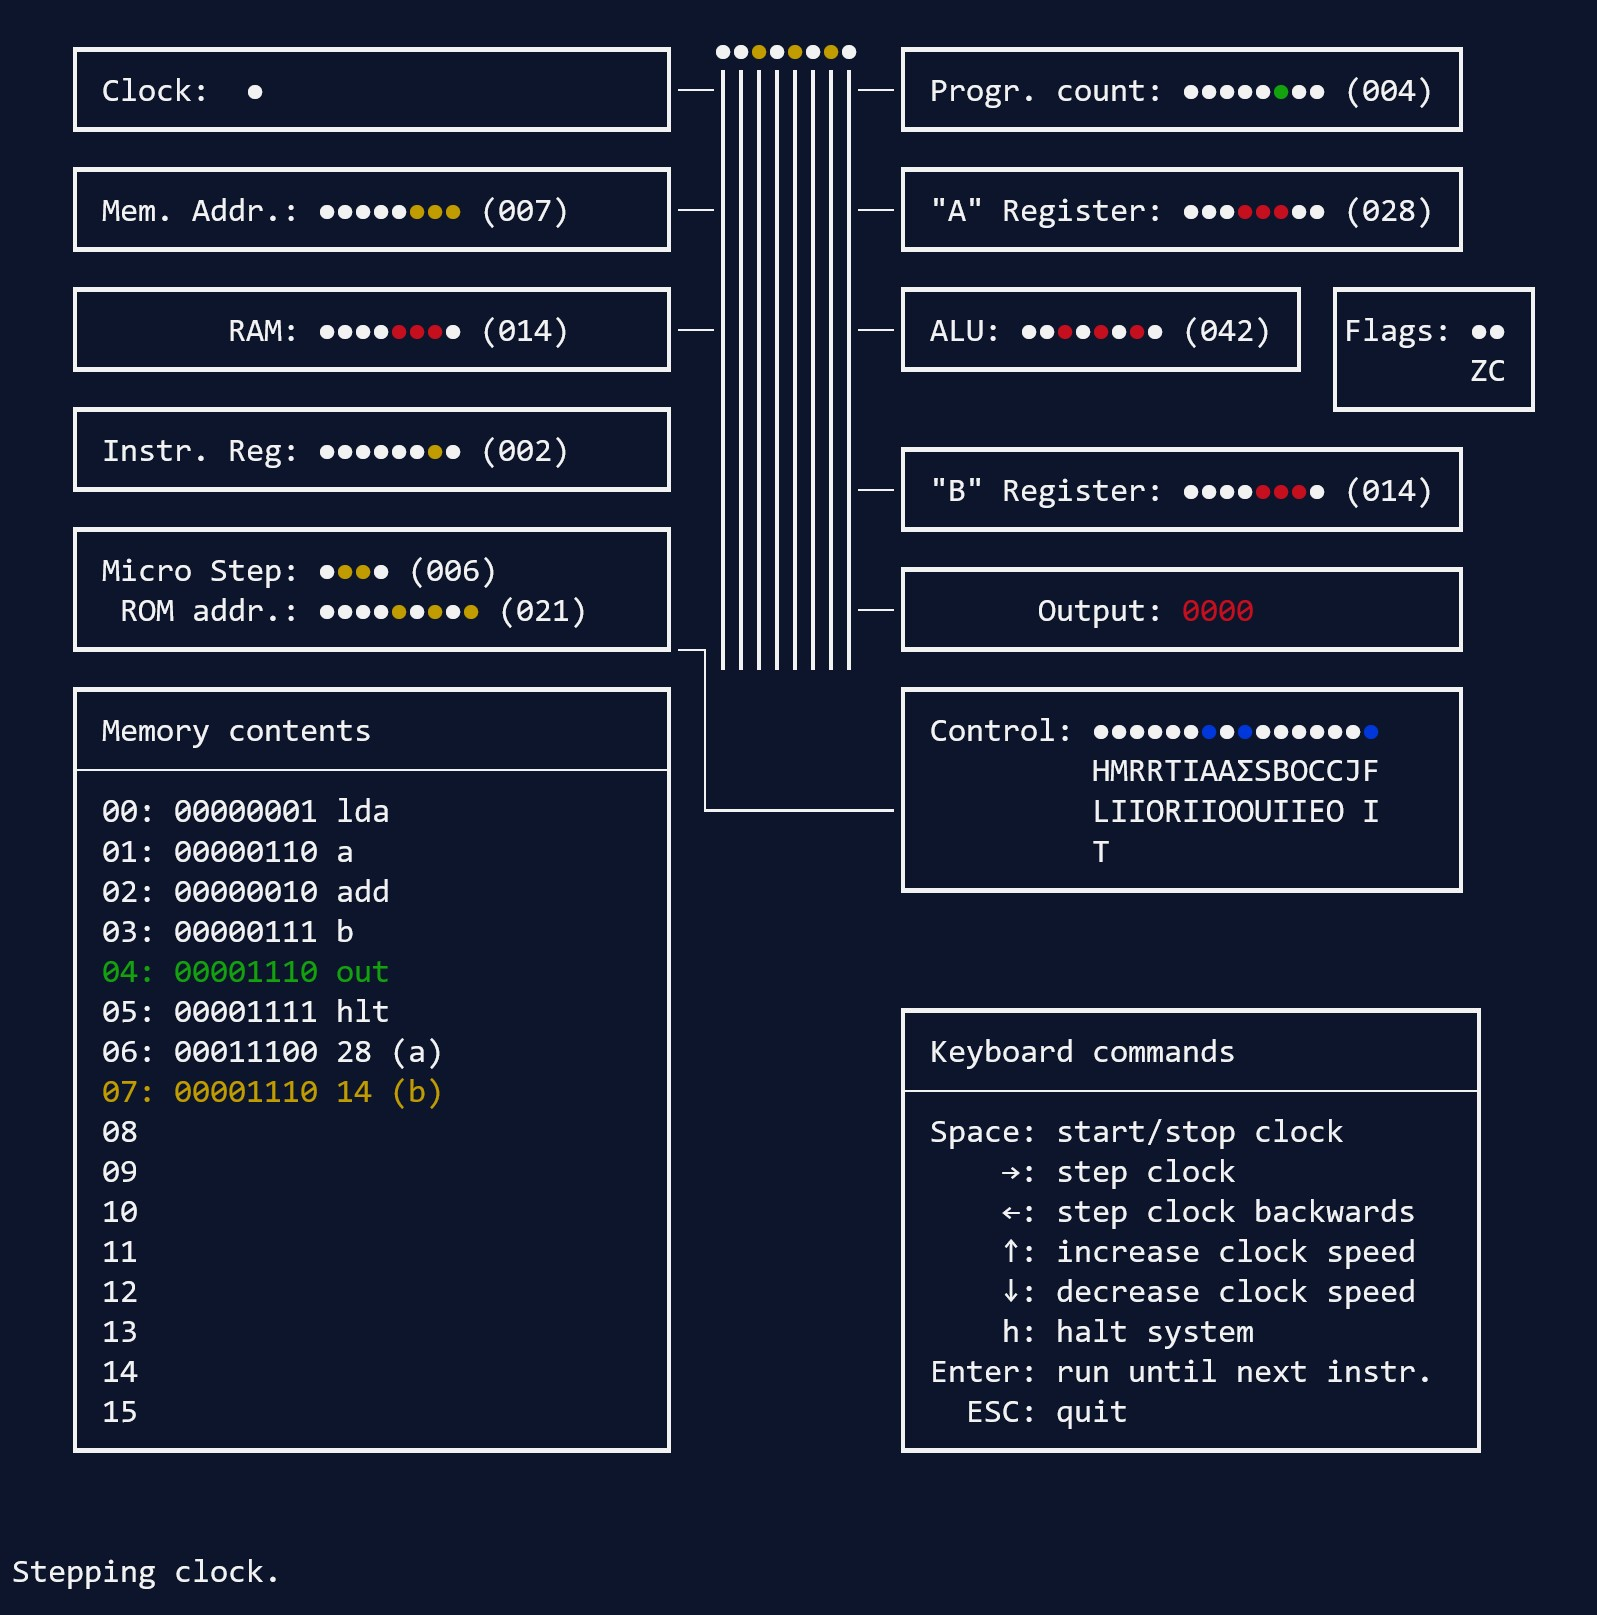
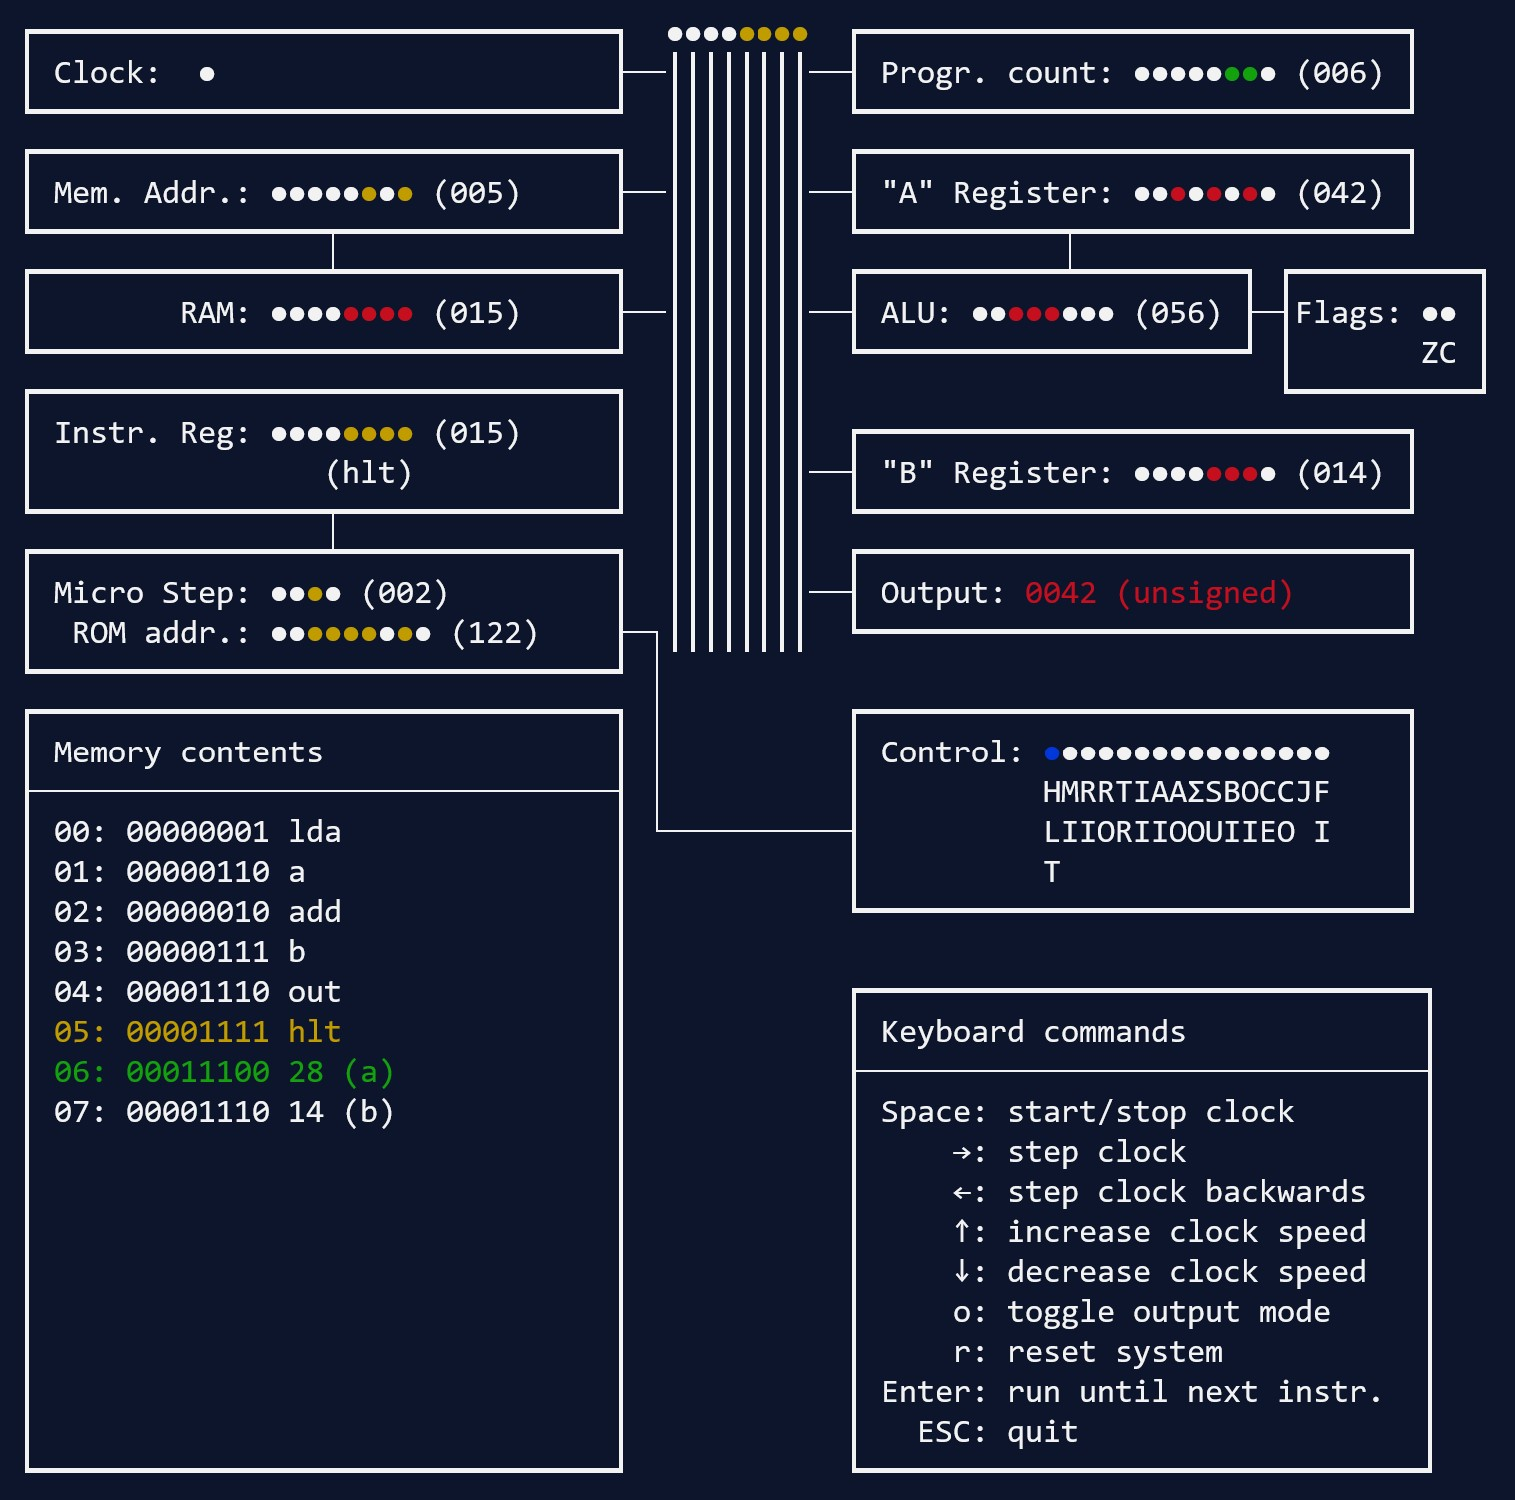
Update interface

Changed region(s): [[0.0, 0.0, 0.9927, 0.9813], [0.0, 0.9507, 0.1861, 0.9813], [0.9307, 0.9507, 0.9617, 0.9813]]

diff --git a/interface.py b/interface.py
@@ -11,10 +11,10 @@ schematic = """
    ┗━━━━━━━━━━━━━━━━━━━━━━━━━━━━━━━━┛  ┃┃┃┃┃┃┃┃  ┗━━━━━━━━━━━━━━━━━━━━━┛ ┃       ZC ┃
    ┏━━━━━━━━━━━━━━━━━━━━━━━━━━━━━━━━┓  ┃┃┃┃┃┃┃┃                          ┗━━━━━━━━━━┛
    ┃ Instr. Reg: ●●●●●●●● (dec)     ┃  ┃┃┃┃┃┃┃┃  ┏━━━━━━━━━━━━━━━━━━━━━━━━━━━━━━┓
-   ┗━━━━━━━━━━━━━━━━┯━━━━━━━━━━━━━━━┛  ┃┃┃┃┃┃┃┃──┨ "B" Register: ●●●●●●●● (dec) ┃
-   ┏━━━━━━━━━━━━━━━━┷━━━━━━━━━━━━━━━┓  ┃┃┃┃┃┃┃┃  ┗━━━━━━━━━━━━━━━━━━━━━━━━━━━━━━┛
-   ┃ Micro Step: ●●●● (dec)         ┃  ┃┃┃┃┃┃┃┃  ┏━━━━━━━━━━━━━━━━━━━━━━━━━━━━━━┓
-   ┃  ROM addr.: ●●●●●●●●● (dec)    ┃  ┃┃┃┃┃┃┃┃──┨ Output: -dec (unsigned)      ┃
+   ┃                (ins)           ┃  ┃┃┃┃┃┃┃┃──┨ "B" Register: ●●●●●●●● (dec) ┃
+   ┗━━━━━━━━━━━━━━━━┯━━━━━━━━━━━━━━━┛  ┃┃┃┃┃┃┃┃  ┗━━━━━━━━━━━━━━━━━━━━━━━━━━━━━━┛
+   ┏━━━━━━━━━━━━━━━━┷━━━━━━━━━━━━━━━┓  ┃┃┃┃┃┃┃┃  ┏━━━━━━━━━━━━━━━━━━━━━━━━━━━━━━┓
+   ┃ Micro Step: ●●●● (dec)         ┃  ┃┃┃┃┃┃┃┃──┨ Output: -dec (unsigned)      ┃
    ┃  ROM addr.: ●●●●●●●●● (dec)    ┠─┐┃┃┃┃┃┃┃┃  ┗━━━━━━━━━━━━━━━━━━━━━━━━━━━━━━┛
    ┗━━━━━━━━━━━━━━━━━━━━━━━━━━━━━━━━┛ │
    ┏━━━━━━━━━━━━━━━━━━━━━━━━━━━━━━━━┓ │          ┏━━━━━━━━━━━━━━━━━━━━━━━━━━━━━━┓
@@ -43,6 +43,7 @@ import curses
 import sys
 
 import microcode
+from assembler import num_to_instruction
 
 
 def init(stdscr):
@@ -137,6 +138,7 @@ def update(stdscr, state):
 
     # Instruction register
     draw_leds(11, 17, num=state.reg_instruction, n=8, color=5)
+    stdscr.addstr(12, 20, f'({num_to_instruction[state.reg_instruction]:>3s})', curses.color_pair(1))
 
     # "B" register
     draw_leds(12, 65, num=state.reg_b, n=8, color=2)
@@ -152,11 +154,11 @@ def update(stdscr, state):
         stdscr.addstr(15, 59, f'{state.reg_output:04d} (unsigned)', curses.color_pair(2))
 
     # Microinstruction step
-    draw_leds(14, 17, num=state.microinstruction_counter, n=4, color=5)
-    draw_leds(15, 17, num=state.rom_address, n=9, color=5)
+    draw_leds(15, 17, num=state.microinstruction_counter, n=4, color=5)
+    draw_leds(16, 17, num=state.rom_address, n=9, color=5)
 
     # Control lines
-    draw_leds(18, 60, num=state.control_signals, n=16, color=4, dec=False)
+    draw_leds(19, 60, num=state.control_signals, n=16, color=4, dec=False)
 
     # Memory contents
     offset = state.reg_program_counter // 16 * 16
@@ -168,10 +170,10 @@ def update(stdscr, state):
             color = curses.color_pair(5)
 
         # Blank the line before drawing memory contents
-        stdscr.addstr(20 + address - offset, 4, '                               ', color)
-        stdscr.addstr(20 + address - offset, 5, contents, color)
+        stdscr.addstr(21 + address - offset, 4, '                               ', color)
+        stdscr.addstr(21 + address - offset, 5, contents, color)
     # Blank any remaining empty lines in the memory contents display
-    for i in range(21 + address - offset, 36):
+    for i in range(22 + address - offset, 37):
         stdscr.addstr(i, 4, '                               ', color)
 
     # Halt message

diff --git a/assembler.py b/assembler.py
@@ -13,6 +13,7 @@ opcodes = {
     'out': 14,
     'hlt': 15,
 }
+num_to_instruction = {v: k for k, v in opcodes.items()}
 
 
 def parse_param(param, labels):
